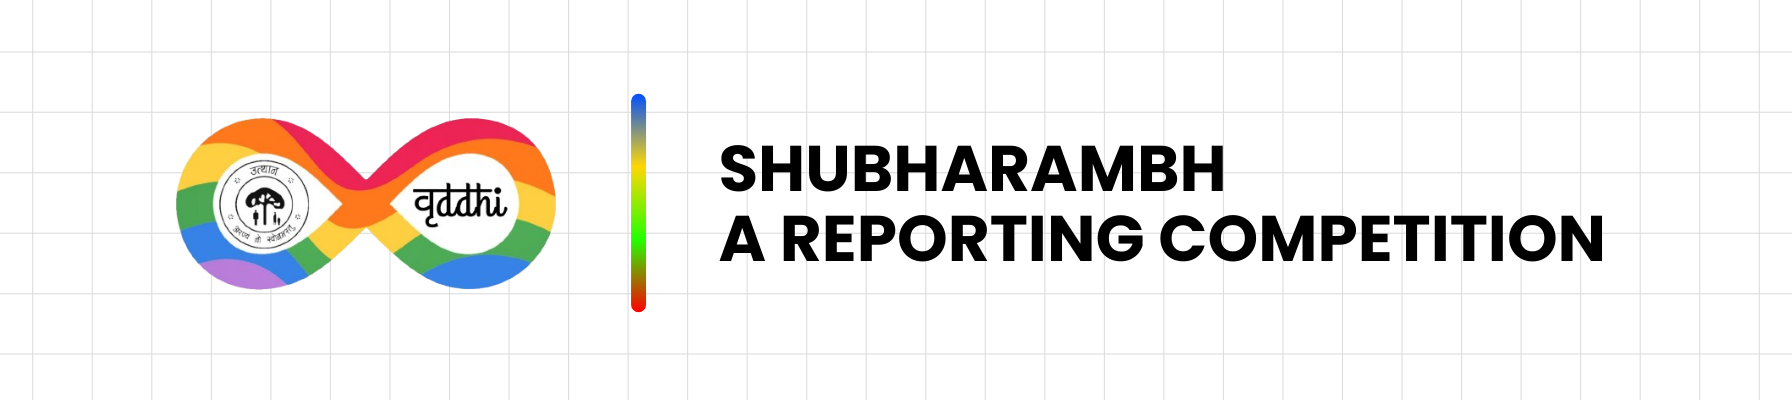
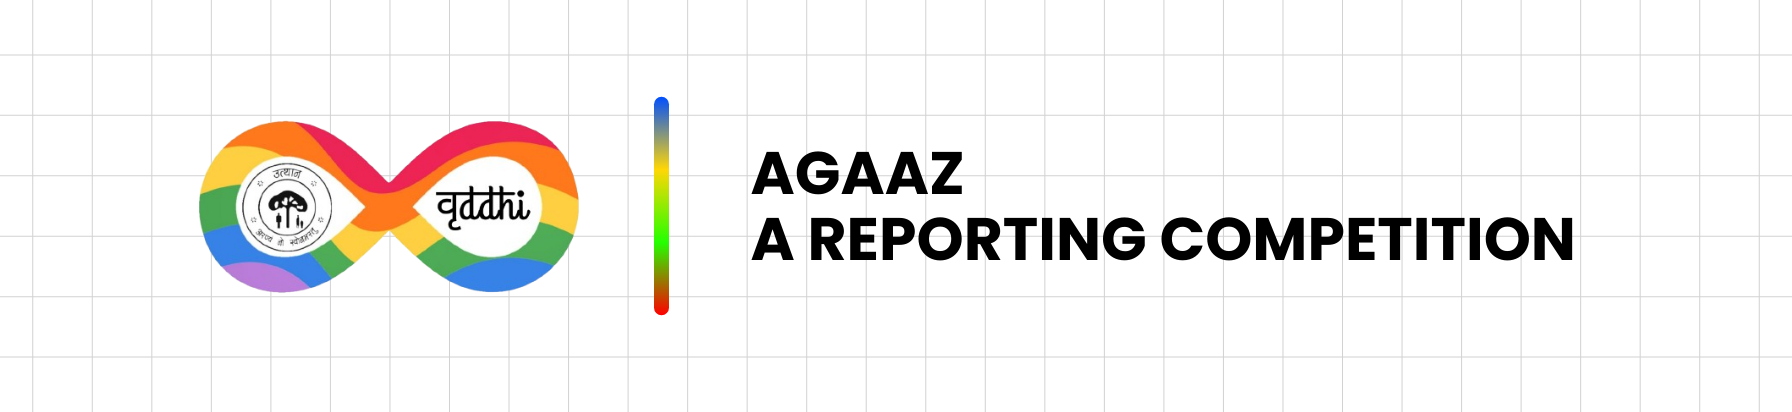
Add files via upload

Changed region(s): [[0.0, 0.24, 1.0, 0.78]]

diff --git a/agaaz.html b/agaaz.html
@@ -1,0 +1,129 @@
+<!DOCTYPE html>
+<html lang="en">
+
+<head>
+    <meta charset="UTF-8">
+    <meta name="viewport" content="width=device-width, initial-scale=1.0">
+    <title>Agaaz - A Reporting Competition </title>
+    <link rel="stylesheet" href="style.css">
+    <link href='https://fonts.googleapis.com/css?family=Poppins' rel='stylesheet'>
+    <link rel="icon" type="image/x-icon" href="logo.png">
+</head>
+
+<body>
+    <nav>
+        <a href="index.html">
+            <div id="nav-text-logo">
+                <span><img src="logo.png"></span><span class="nav-text-logo">Vriddhi - USI Cultural Club</span>
+            </div>
+        </a>
+        <div id="nav-text">
+            <a class="nav-text" href="index.html">Home</a>
+            <a class="nav-text" href="up_events.html" target="_blank">Upcoming Events</a>
+            <a class="nav-text" href="past_event.html" target="_blank">Past Events</a>
+            <a class="nav-text" href="organizers.html" target="_blank">Founders</a>
+            <a class="nav-text" href="about.html" target="_blank">About</a>
+        </div>
+    </nav>
+    <div id="home">
+        <div class="banner">
+            <img class="banner-img" src="event_banner.png">
+        </div>
+        <div class="banner-text">
+            Agaaz - A Reporting Competition
+        </div>
+        <div id="about">
+            <div class="about-text-main">
+                About The Event
+            </div>
+            <div class="about-text-content" style="text-align: justify;">
+                <p style="opacity: 1;"> <b>Agaaz: A Reporting Competition to Ignite Your Journalistic Spark</b>
+                </p>
+
+                <p style="opacity: 1;">Agaaz, our esteemed reporting competition, invites aspiring journalists to
+                    showcase their talent
+                    and passion for impactful reporting. Explore topics that inspire positive change, from social issues
+                    to
+                    educational initiatives, and let your words be the catalyst for transformation.</p>
+
+                <p style="opacity: 1;">This competition challenges you to research meticulously, think critically, and
+                    craft compelling
+                    reports
+                    that shed light on the extraordinary within the ordinary. Whether you're a seasoned reporter or a
+                    budding journalist, Agaaz provides a platform to amplify your voice and make a difference.</p>
+                <br>
+                <p style="opacity: 1;"> <b>Key Details:</b></p>
+                <ul>
+                    <li class="li-event">Video Duration: 3-5 minutes</li>
+                    <li class="li-event"> Team Size: 3-5 members</li>
+                    <li class="li-event">Submission Deadline: May 25th</li>
+                </ul>
+                <p style="opacity: 1;"><b>Exciting Prizes Await the Top 3 Winners! Every participant will receive a
+                        Certificate of Appreciation. </b></p>
+
+                <p style="opacity: 1;">Join us in Agaaz and be a part of a movement that celebrates the power of
+                    journalism to ignite
+                    awareness and action. Embark on this extraordinary journey and let your reporting inspire a brighter
+                    future.</p>
+
+                <p style="opacity: 1;">This competition challenges you to research, think critically, and craft
+                    compelling reports that shed
+                    light on the extraordinary within the ordinary. Whether you're a seasoned reporter or a budding
+                    journalist, Agaaz provides a platform to amplify your voice and make a difference.</p>
+                <br>
+                <p style="opacity: 1;"> <b>Procedure:</b></p>
+                <ul>
+                    <li class="li-event">
+                        Form a team of 3-5 members.
+                        Choose a social (like dowry, child abuse, etc.) or educational (like AI, Climate change, etc.)
+                        topics.
+
+                        (Note: Avoid controversial topics like politics, religion, etc.)</li>
+                    <li class="li-event">Research and prepare a script for a 3–5 minute news report.</li>
+                    <li class="li-event">Record a video of your team presenting the news report.</li>
+                    <li class="li-event">Upload the video on Google Drive, make it public and share the link with us
+                        through this Google Form.</li>
+                </ul>
+                <br>
+                <p style="opacity: 1;"><b> Submission Guidelines:</b></p>
+                <ul>
+
+                    <li class="li-event">Last day of submission: May 25, 2024</li>
+                    <li class="li-event">Video duration: 3-5 minutes</li>
+                    <li class="li-event">Team size: 3-5 members</li>
+                </ul>
+                <br>
+                <p style="opacity: 1;"><b>Certification and Prizes:</b></p>
+                <ul>
+                    <li class="li-event">Exciting prizes will be awarded to the top 3 winning teams.</li>
+                    <li class="li-event">Every participant will receive a Certificate of Appreciation.</li>
+                </ul>
+                <br>
+                <p style="opacity: 1;"><b>Judging Criteria:</b></p>
+                <ul>
+                    <li class="li-event">Content (relevance, accuracy, and depth)</li>
+                    <li class="li-event">Presentation (clarity, confidence, and teamwork)</li>
+                    <li class="li-event">Creativity (originality and engagement)</li>
+                </ul>
+                <br>
+                <p style="opacity: 1;"> <b> Join us in Agaaz and let your reporting skills shine!</b></p>
+            </div>
+
+        </div>
+        <div class="load">
+            <a href="https://forms.gle/uxwg1ths2rZAxP3L7" target="_blank">
+                <div class="load-btn">
+                    Participant Registration
+                </div>
+            </a>
+            <a href="#" target="_blank">
+                <div class="load-btn">
+                    Attendees Registration
+                </div>
+            </a>
+        </div>
+        <br>
+
+</body>
+
+</html>

diff --git a/index.html b/index.html
@@ -85,9 +85,9 @@ from around the USI , Prayagraj .>
                     <img class="profile-img" src="event-one.png">
                 </div>
                 <p>31 May 2024</p>
-                <p><b>Shubharambh</b></p>
+                <p><b>Agaaz</b></p>
                 <p>A Reporting Competition</p>
-                <a href="shubharambh.html" target="_blank">
+                <a href="agaaz.html" target="_blank">
                     <p class="profile">Register Now</p>
                 </a>
             </div>
@@ -307,8 +307,8 @@ from around the USI , Prayagraj .>
                 <li><a href="up_events.html" target="_blank"> Upcoming Events </a></li>
                 <li><a href="past_event.html" target="_blank"> Past Events </a></li>
 
-                <li><a href="organizers.html" target="_blank">Founders </a></li>
-                <li><a href="#chapters"> Photos </a></li>
+                <li><a href="organizers.html" target="_blank">Organizers </a></li>
+                <li><a href="#chapters"> Chapter </a></li>
                 <li><a href="about.html" target="_blank"> About </a></li>
             </ul>
         </div>

diff --git a/up_events.html b/up_events.html
@@ -35,9 +35,9 @@
                     <img class="profile-img" src="event-one.png">
                 </div>
                 <p>31 May 2024</p>
-                <p><b>Shubharambh</b></p>
+                <p><b>Agaaz</b></p>
                 <p>A Reporting Competition</p>
-                <a href="shubharambh.html" target="_blank">
+                <a href="agaaz.html" target="_blank">
                     <p class="profile">Register Now</p>
                 </a>
             </div>
